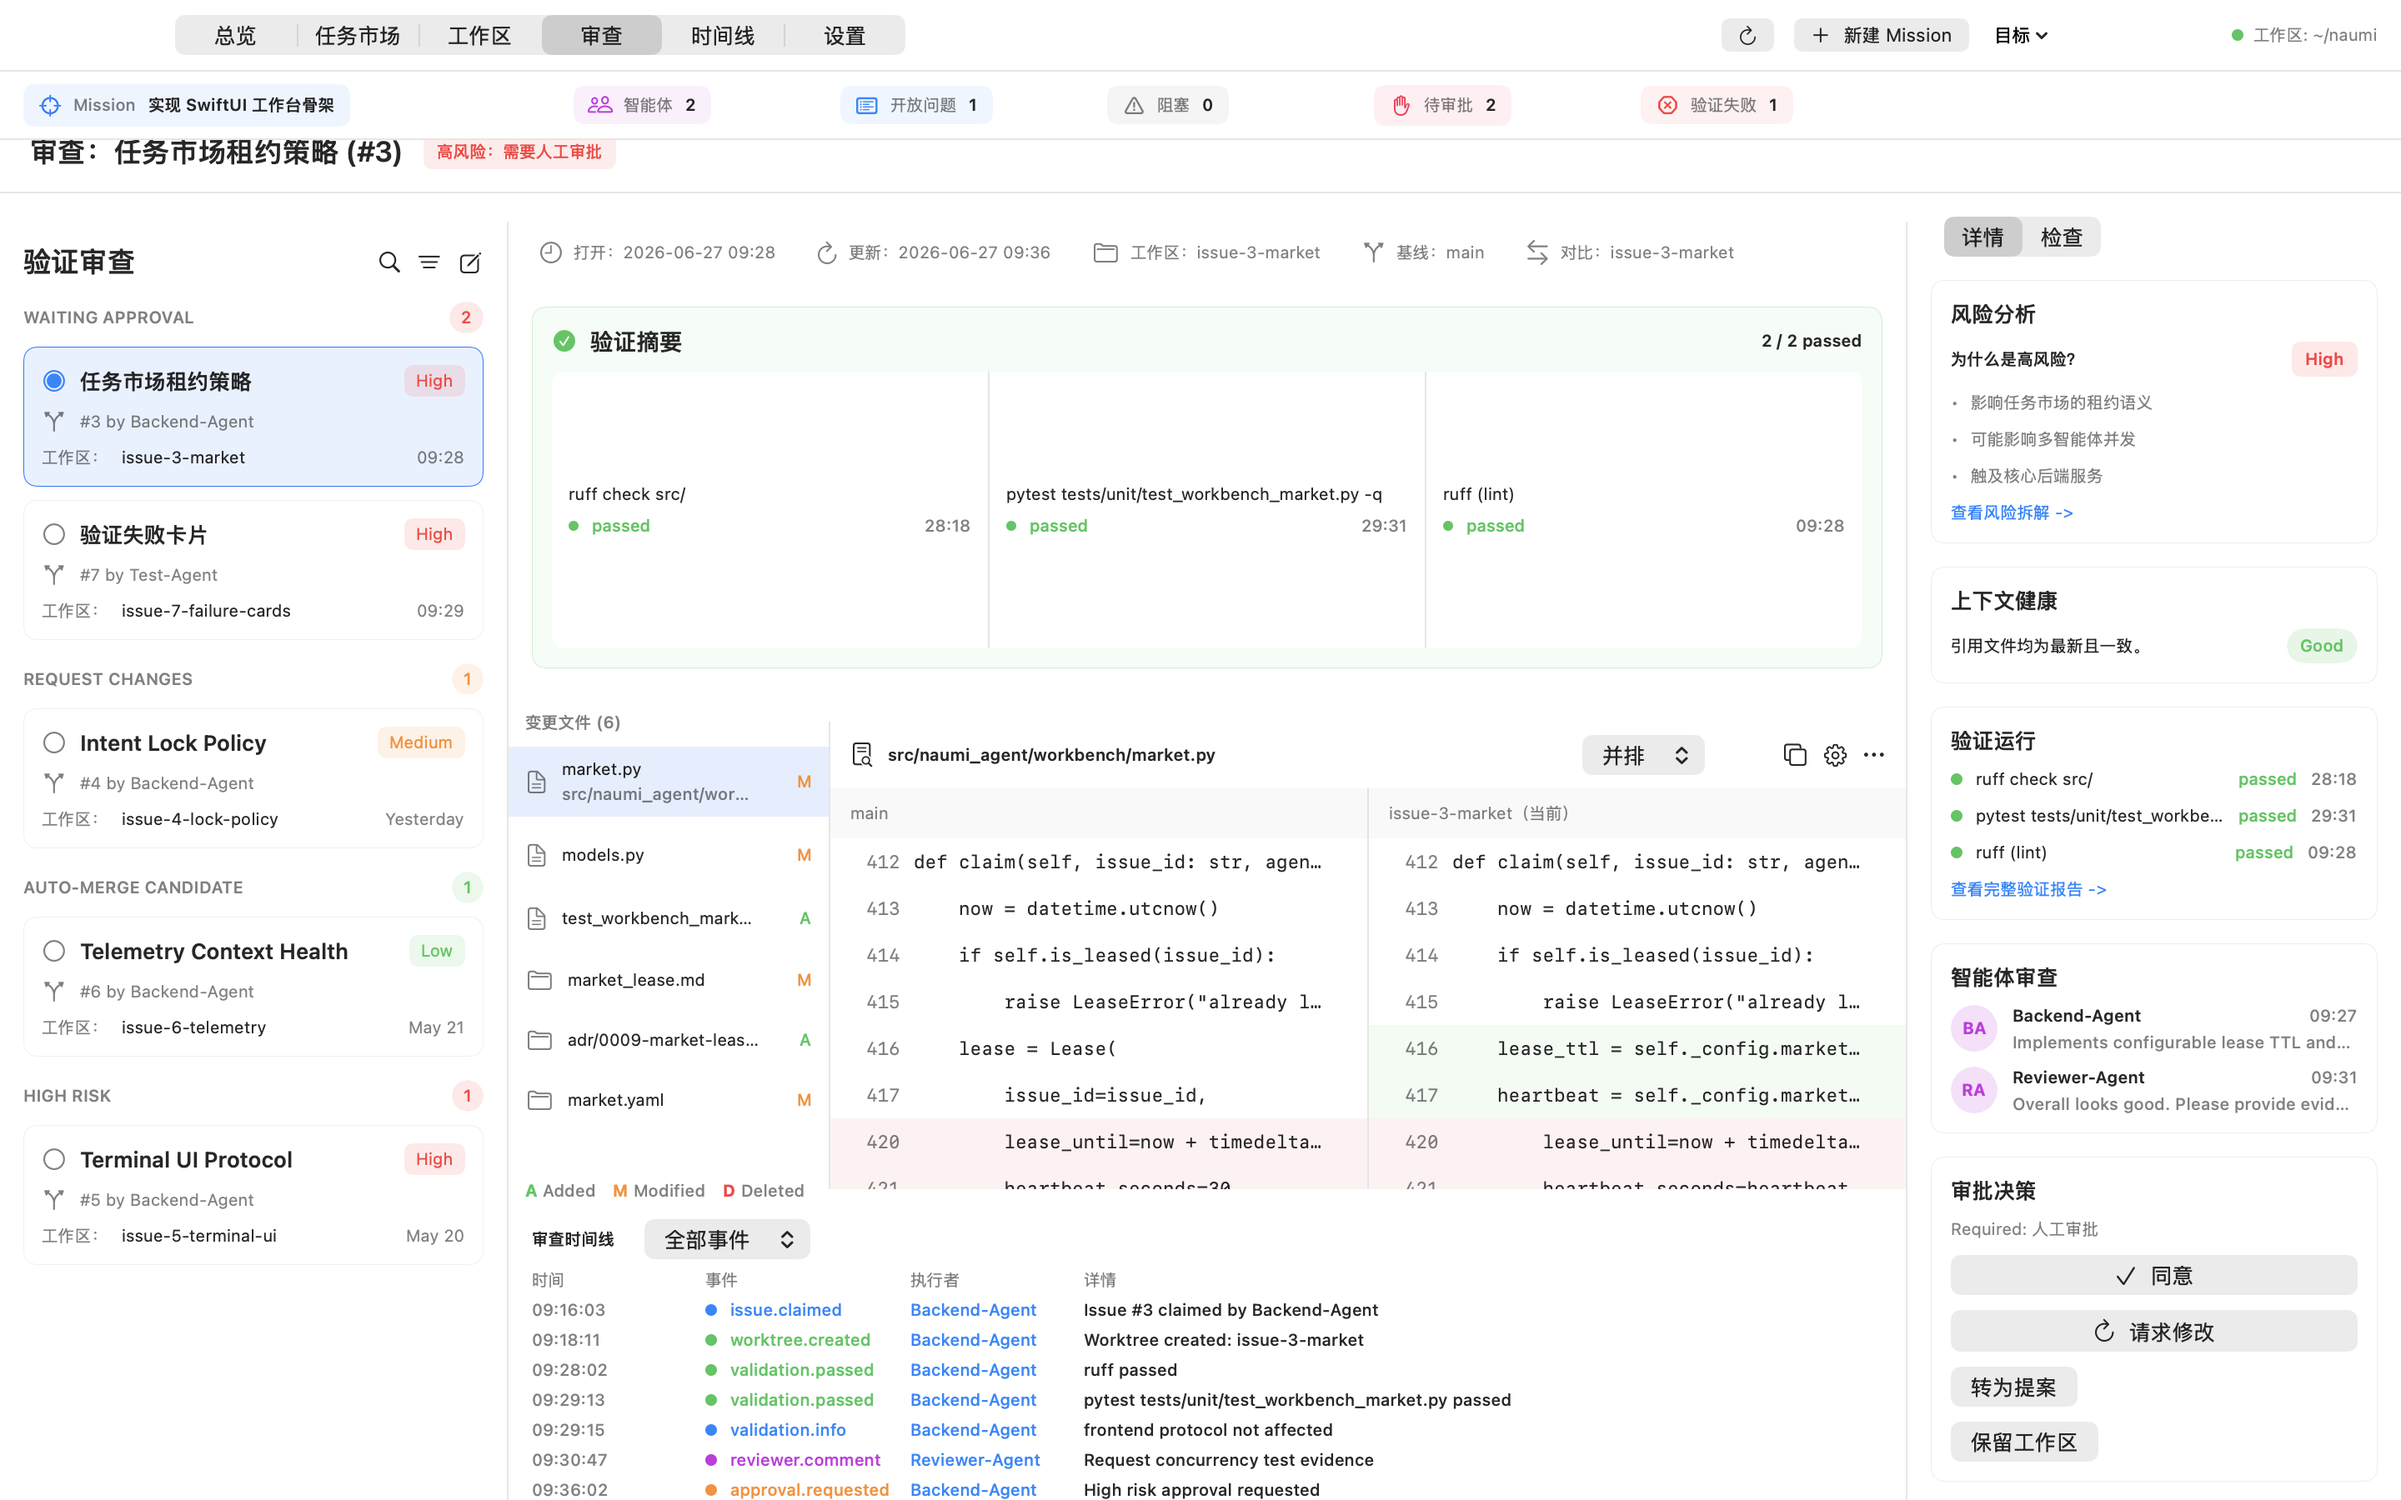
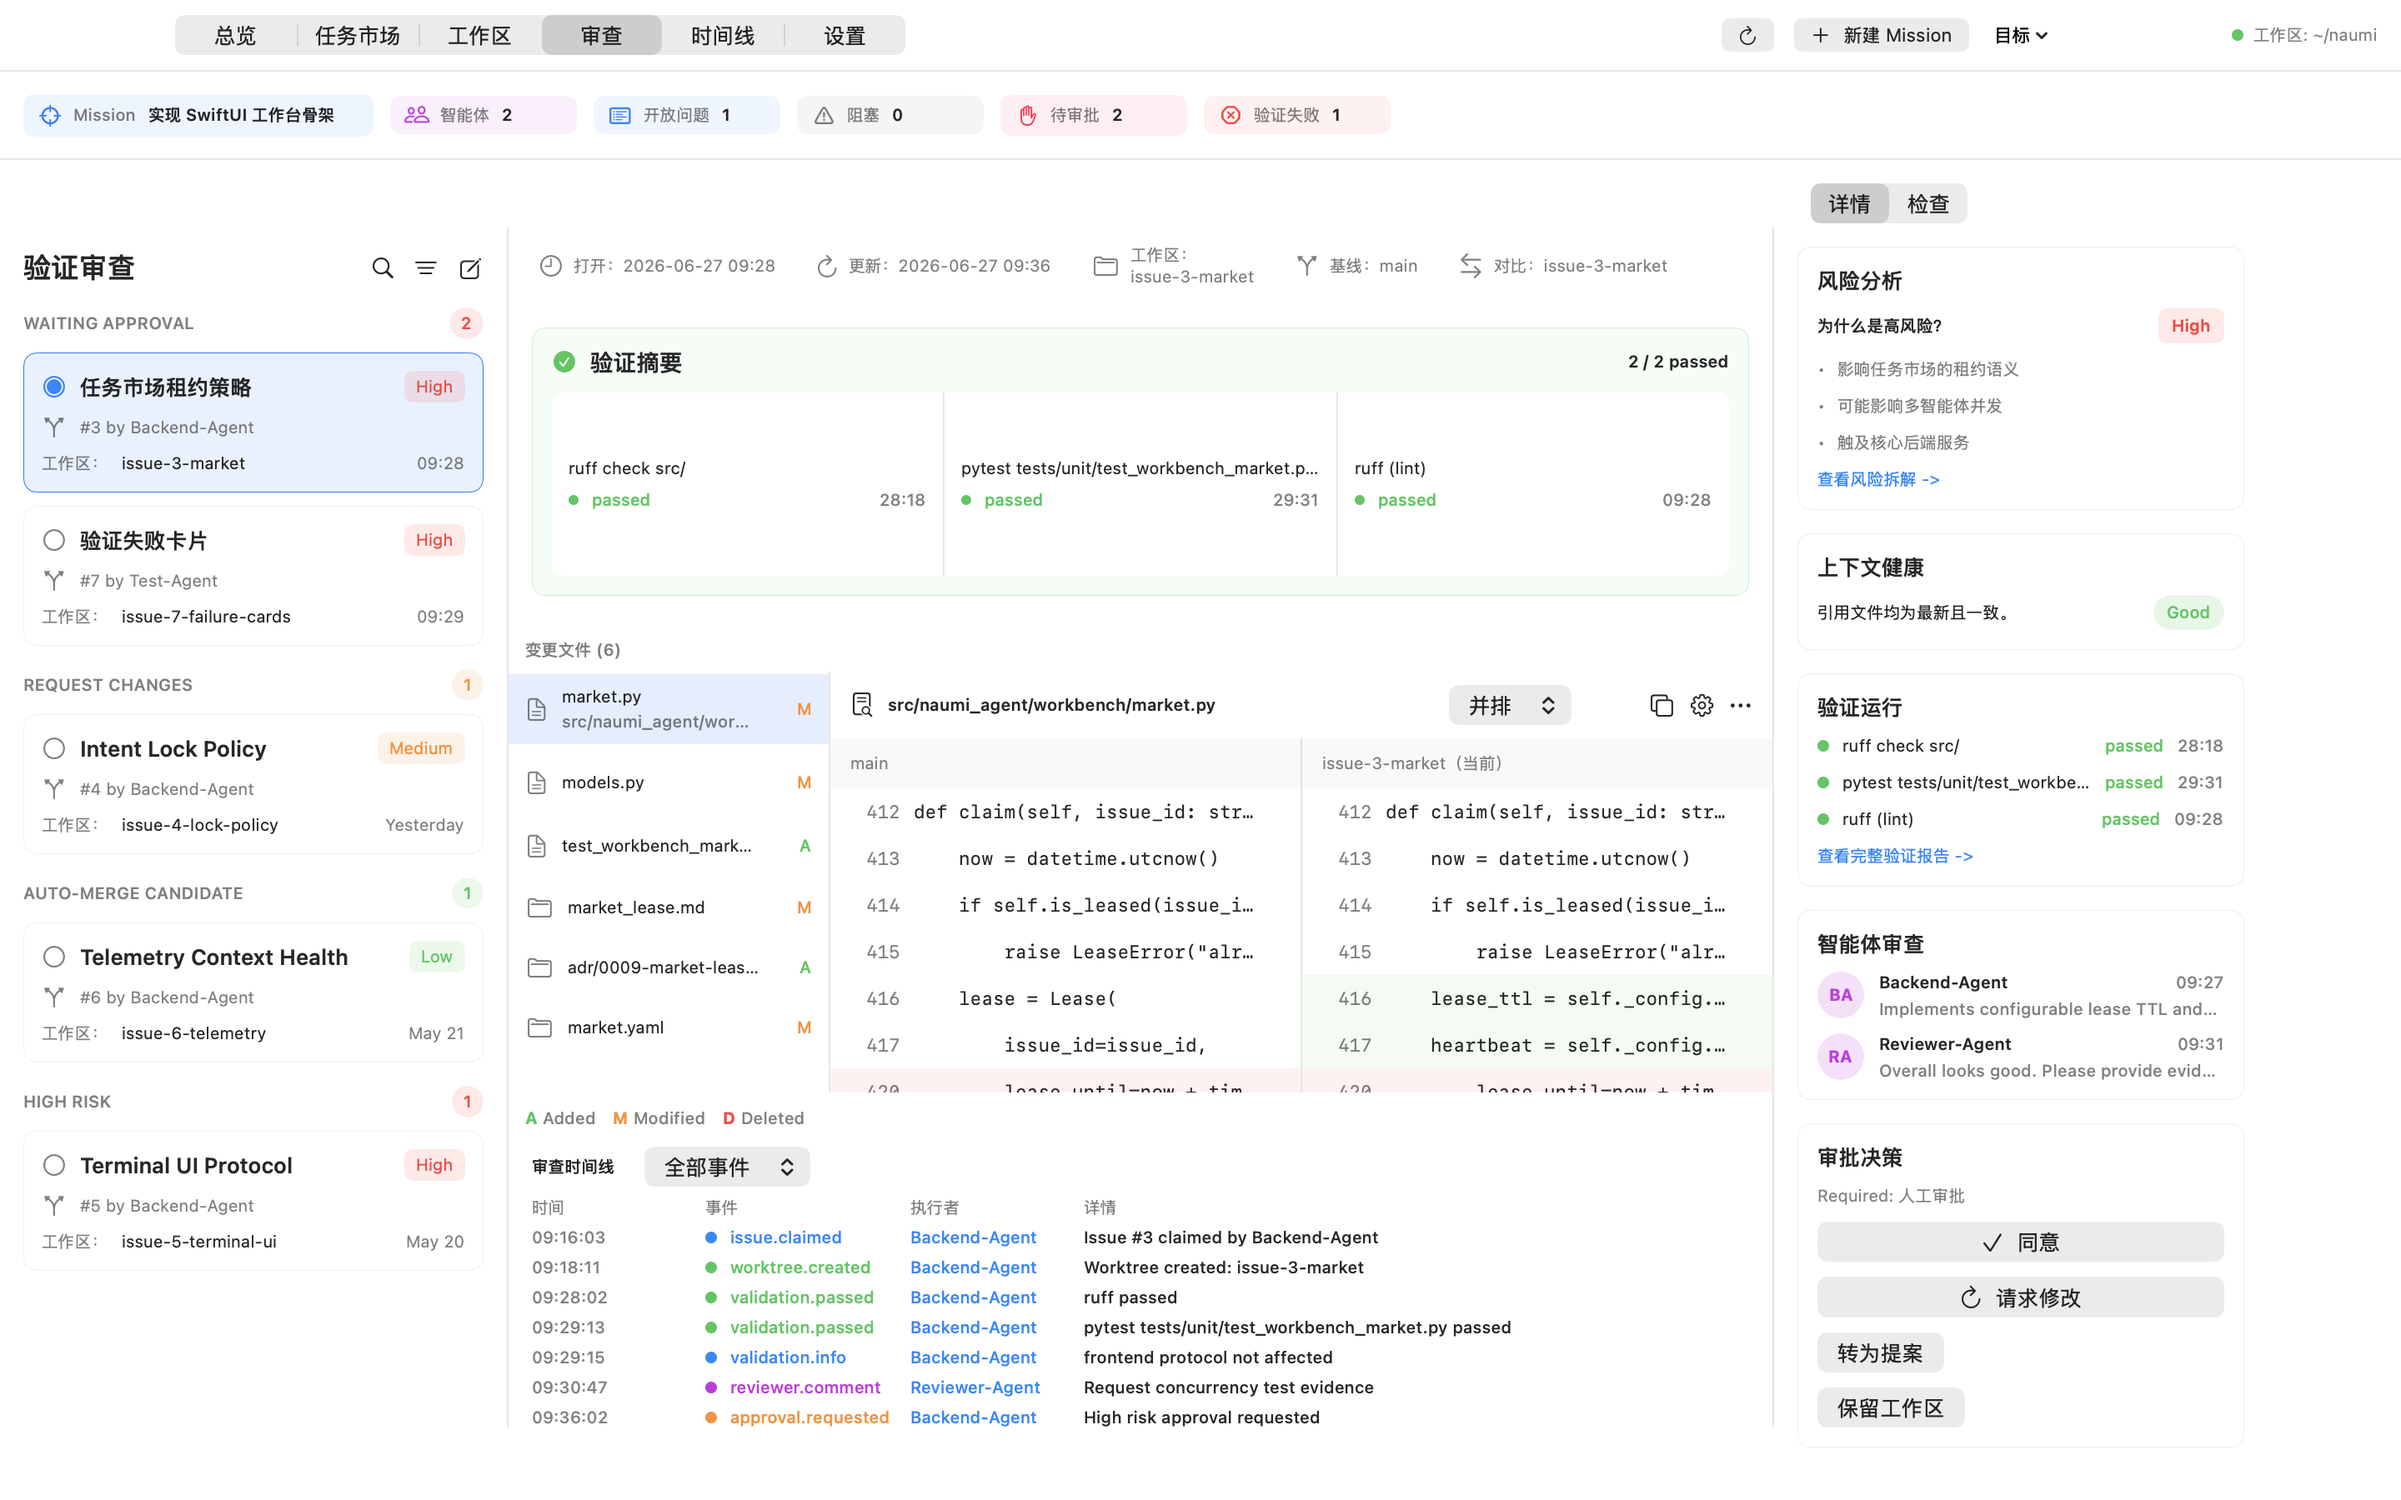
fix: stabilize mac workbench responsive layout

diff --git a/apps/macos/NaumiAgentWorkbench/Sources/NaumiAgentWorkbenchCore/Features/Reviews/ReviewsView.swift b/apps/macos/NaumiAgentWorkbench/Sources/NaumiAgentWorkbenchCore/Features/Reviews/ReviewsView.swift
@@ -20,28 +20,46 @@ public struct ReviewsView: View {
             snapshot: appState.snapshot
         )
         let selected = selectedReview(presentation)
+        let layout = WorkbenchScaledPageLayout.reviews
 
-        VStack(spacing: 0) {
-            pageHeader(selected: selected)
-            Divider()
+        GeometryReader { proxy in
+            let scale = CGFloat(layout.scale(for: Double(proxy.size.width)))
+            let scaledSize = layout.scaledSize(for: Double(proxy.size.width))
 
-            HStack(spacing: 0) {
-                reviewQueueRail(presentation)
-                    .frame(width: 304)
-                Divider()
-                reviewMain(presentation: presentation, selected: selected)
-                    .frame(maxWidth: .infinity, maxHeight: .infinity)
-                Divider()
-                reviewInspector(presentation: presentation, selected: selected)
-                    .frame(width: 296)
+            ZStack(alignment: .topLeading) {
+                reviewLayoutContent(presentation: presentation, selected: selected)
+                    .frame(width: layout.baseWidth, height: layout.baseHeight, alignment: .topLeading)
+                    .scaleEffect(scale, anchor: .topLeading)
+                    .frame(width: scaledSize.width, height: scaledSize.height, alignment: .topLeading)
             }
-
+            .frame(width: proxy.size.width, height: proxy.size.height, alignment: .topLeading)
+            .clipped()
         }
-        .frame(minWidth: 1180, minHeight: 720)
         .background(Color(nsColor: .windowBackgroundColor))
         .onAppear {
             selectedReviewID = selected.id
         }
+    }
+
+    private func reviewLayoutContent(
+        presentation: ReviewsDesignPresentation,
+        selected: ReviewDesignItem
+    ) -> some View {
+        HStack(spacing: 0) {
+            reviewQueueRail(presentation)
+                .frame(width: 304)
+            Divider()
+            reviewMain(presentation: presentation, selected: selected)
+                .frame(maxWidth: .infinity, maxHeight: .infinity)
+            Divider()
+            reviewInspector(presentation: presentation, selected: selected)
+                .frame(width: 296)
+        }
+        .frame(
+            width: WorkbenchScaledPageLayout.reviews.baseWidth,
+            height: WorkbenchScaledPageLayout.reviews.baseHeight,
+            alignment: .topLeading
+        )
     }
 
     private func selectedReview(_ presentation: ReviewsDesignPresentation) -> ReviewDesignItem {
@@ -51,33 +69,9 @@ public struct ReviewsView: View {
             ?? presentation.selectedReview
     }
 
-    private func pageHeader(selected: ReviewDesignItem) -> some View {
-        HStack(spacing: 12) {
-            Text(appState.locale == .zhCN
-                ? "审查：\(selected.title) (#\(selected.number))"
-                : "Review: \(selected.title) (#\(selected.number))"
-            )
-                .font(.system(size: 17, weight: .semibold))
-                .lineLimit(1)
-                .truncationMode(.tail)
-            Text(appState.locale == .zhCN ? "高风险：需要人工审批" : "High Risk: Human Approval Required")
-                .font(.caption)
-                .fontWeight(.medium)
-                .padding(.horizontal, 8)
-                .padding(.vertical, 4)
-                .background(Color.red.opacity(0.10))
-                .foregroundStyle(.red)
-                .clipShape(RoundedRectangle(cornerRadius: 5))
-            Spacer()
-        }
-        .padding(.horizontal, 18)
-        .frame(height: 48)
-        .background(Color(nsColor: .windowBackgroundColor))
-    }
-
     private func reviewQueueRail(_ presentation: ReviewsDesignPresentation) -> some View {
         VStack(alignment: .leading, spacing: 14) {
-            HStack {
+            HStack(spacing: 10) {
                 Text(AppStrings.Reviews.title(appState.locale))
                     .font(.system(size: 17, weight: .semibold))
                 Spacer()

diff --git a/apps/macos/NaumiAgentWorkbench/Sources/NaumiAgentWorkbenchCore/Features/Dashboard/DashboardView.swift b/apps/macos/NaumiAgentWorkbench/Sources/NaumiAgentWorkbenchCore/Features/Dashboard/DashboardView.swift
@@ -51,22 +51,46 @@ public struct DashboardView: View {
         snapshot: WorkbenchSnapshotDTO,
         presentation: DashboardSnapshotPresentation
     ) -> some View {
+        let layout = WorkbenchScaledPageLayout.dashboard
         let market = TaskMarketDesignPresentation(snapshot: snapshot)
 
-        return VStack(spacing: 0) {
-            HStack(spacing: 0) {
+        return GeometryReader { proxy in
+            let scale = CGFloat(layout.scale(for: Double(proxy.size.width)))
+            let scaledSize = layout.scaledSize(for: Double(proxy.size.width))
+
+            ZStack(alignment: .topLeading) {
+                workbenchLayoutContent(presentation: presentation, market: market)
+                    .frame(
+                        width: layout.baseWidth,
+                        height: layout.baseHeight,
+                        alignment: .topLeading
+                    )
+                    .scaleEffect(scale, anchor: .topLeading)
+                    .frame(width: scaledSize.width, height: scaledSize.height, alignment: .topLeading)
+            }
+            .frame(width: proxy.size.width, height: proxy.size.height, alignment: .topLeading)
+            .clipped()
+        }
+    }
+
+    private func workbenchLayoutContent(
+        presentation: DashboardSnapshotPresentation,
+        market: TaskMarketDesignPresentation
+    ) -> some View {
+        VStack(spacing: 0) {
+            HStack(alignment: .top, spacing: 0) {
                 workbenchLeftRail(presentation: presentation, market: market)
                     .frame(width: 302)
 
                 Divider()
 
                 sharedCanvas(presentation: presentation, market: market)
-                    .frame(minWidth: 620, maxWidth: .infinity, maxHeight: .infinity)
+                    .frame(minWidth: 620, maxWidth: .infinity, maxHeight: .infinity, alignment: .top)
 
                 Divider()
 
                 inspectorPanel(presentation: presentation)
-                    .frame(width: 296)
+                    .frame(width: 296, alignment: .top)
             }
 
             Divider()
@@ -74,7 +98,11 @@ public struct DashboardView: View {
             auditTrail(presentation: presentation)
                 .frame(height: 112)
         }
-        .frame(minWidth: 1180, minHeight: 720)
+        .frame(
+            width: WorkbenchScaledPageLayout.dashboard.baseWidth,
+            height: WorkbenchScaledPageLayout.dashboard.baseHeight,
+            alignment: .topLeading
+        )
     }
 
     private func workbenchHeader(presentation: DashboardSnapshotPresentation) -> some View {
@@ -334,7 +362,7 @@ public struct DashboardView: View {
                     .font(.system(size: 14, weight: .semibold))
             }
             .padding(.horizontal, 16)
-            .padding(.top, 14)
+            .frame(height: 44, alignment: .center)
 
             ZStack {
                 dottedCanvasBackground

diff --git a/apps/macos/NaumiAgentWorkbench/Sources/NaumiAgentWorkbenchCore/App/WorkbenchShellView.swift b/apps/macos/NaumiAgentWorkbench/Sources/NaumiAgentWorkbenchCore/App/WorkbenchShellView.swift
@@ -28,10 +28,10 @@ public struct WorkbenchShellView: View {
             Divider()
 
             routeView(for: appState.currentRoute)
-                .frame(maxWidth: .infinity, maxHeight: .infinity, alignment: .top)
+                .frame(maxWidth: .infinity, maxHeight: .infinity, alignment: .topLeading)
                 .clipped()
         }
-        .frame(minWidth: 1180, minHeight: 720)
+        .frame(minWidth: 900, minHeight: 620)
         .sheet(isPresented: $isPresentingMissionComposer) {
             MissionComposerSheet(
                 appState: environment.appState,
@@ -89,11 +89,7 @@ private struct GlobalStatusStrip: View {
         HStack(spacing: 10) {
             ForEach(presentation.items) { item in
                 statusItem(item)
-                    .frame(
-                        minWidth: item.label == "Mission" ? 220 : 96,
-                        maxWidth: item.label == "Mission" ? 320 : 150,
-                        alignment: .leading
-                    )
+                    .frame(width: item.label == "Mission" ? 210 : 112, alignment: .leading)
             }
 
             Spacer(minLength: 8)
@@ -124,6 +120,7 @@ private struct GlobalStatusStrip: View {
                 .lineLimit(1)
                 .truncationMode(.middle)
         }
+        .frame(maxWidth: .infinity, alignment: .leading)
         .padding(.horizontal, 9)
         .padding(.vertical, 5)
         .background(color(for: item.tone).opacity(0.08))
@@ -168,7 +165,7 @@ private struct TopNavigationBar: View {
             }
             .pickerStyle(.segmented)
             .labelsHidden()
-            .frame(minWidth: 430, idealWidth: 540, maxWidth: 620)
+            .frame(minWidth: 360, idealWidth: 520, maxWidth: 620)
             .layoutPriority(2)
 
             Spacer(minLength: 12)

diff --git a/apps/macos/NaumiAgentWorkbench/Sources/NaumiAgentWorkbenchCore/App/WorkbenchPageLayout.swift b/apps/macos/NaumiAgentWorkbench/Sources/NaumiAgentWorkbenchCore/App/WorkbenchPageLayout.swift
@@ -1,3 +1,4 @@
+import CoreGraphics
 import Foundation
 
 /// Shared layout constants for fixed workbench navigation pages.
@@ -24,5 +25,29 @@ public struct WorkbenchPageLayout: Equatable, Sendable {
 
     public func centralAvailableWidth(in windowWidth: Double) -> Double {
         windowWidth - railWidth - inspectorWidth
+    }
+}
+
+/// Scales a fixed visual design into the current window without clipping columns.
+public struct WorkbenchScaledPageLayout: Equatable, Sendable {
+    public let baseWidth: Double
+    public let baseHeight: Double
+
+    public static let dashboard = WorkbenchScaledPageLayout(baseWidth: 1360, baseHeight: 720)
+    public static let reviews = WorkbenchScaledPageLayout(baseWidth: 1360, baseHeight: 720)
+
+    public init(baseWidth: Double, baseHeight: Double) {
+        self.baseWidth = baseWidth
+        self.baseHeight = baseHeight
+    }
+
+    public func scale(for availableWidth: Double) -> Double {
+        guard baseWidth > 0 else { return 1 }
+        return min(1, max(0.1, availableWidth / baseWidth))
+    }
+
+    public func scaledSize(for availableWidth: Double) -> CGSize {
+        let scale = scale(for: availableWidth)
+        return CGSize(width: baseWidth * scale, height: baseHeight * scale)
     }
 }

diff --git a/apps/macos/NaumiAgentWorkbench/Tests/NaumiAgentWorkbenchCoreTests/WorkbenchPageLayoutTests.swift b/apps/macos/NaumiAgentWorkbench/Tests/NaumiAgentWorkbenchCoreTests/WorkbenchPageLayoutTests.swift
@@ -10,4 +10,14 @@ struct WorkbenchPageLayoutTests {
         #expect(layout.inspectorWidth == 306)
         #expect(layout.centralAvailableWidth(in: 1440) >= layout.operationsGridWidth)
     }
+
+    @Test func dashboardLayoutScalesDownWithoutExceedingAvailableWidth() {
+        let layout = WorkbenchScaledPageLayout.dashboard
+        let size = layout.scaledSize(for: 900)
+
+        #expect(layout.scale(for: 1440) == 1)
+        #expect(layout.scale(for: 900) < 1)
+        #expect(size.width <= 900)
+        #expect(size.height < layout.baseHeight)
+    }
 }

diff --git a/apps/macos/NaumiAgentWorkbench/Sources/NaumiAgentWorkbenchCore/App/WorkbenchShellPresentation.swift b/apps/macos/NaumiAgentWorkbench/Sources/NaumiAgentWorkbenchCore/App/WorkbenchShellPresentation.swift
@@ -15,7 +15,7 @@ public struct WorkbenchShellPresentation: Equatable, Sendable {
         placesNavigationBelowTitleBar: Bool = true,
         leadingContentInset: Double = 14,
         topNavigationHeight: Double = 42,
-        globalStatusHeight: Double = 40,
+        globalStatusHeight: Double = 52,
         navigationRoutes: [AppRoute] = AppRoute.topNavigationRoutes
     ) {
         self.showsSyntheticWindowControls = showsSyntheticWindowControls

diff --git a/apps/macos/NaumiAgentWorkbench/Tests/NaumiAgentWorkbenchCoreTests/WorkbenchShellPresentationTests.swift b/apps/macos/NaumiAgentWorkbench/Tests/NaumiAgentWorkbenchCoreTests/WorkbenchShellPresentationTests.swift
@@ -10,7 +10,7 @@ struct WorkbenchShellPresentationTests {
         #expect(presentation.placesNavigationBelowTitleBar == true)
         #expect(presentation.leadingContentInset == 14)
         #expect(presentation.topNavigationHeight == 42)
-        #expect(presentation.globalStatusHeight == 40)
+        #expect(presentation.globalStatusHeight == 52)
         #expect(presentation.navigationRoutes == AppRoute.topNavigationRoutes)
     }
 }
